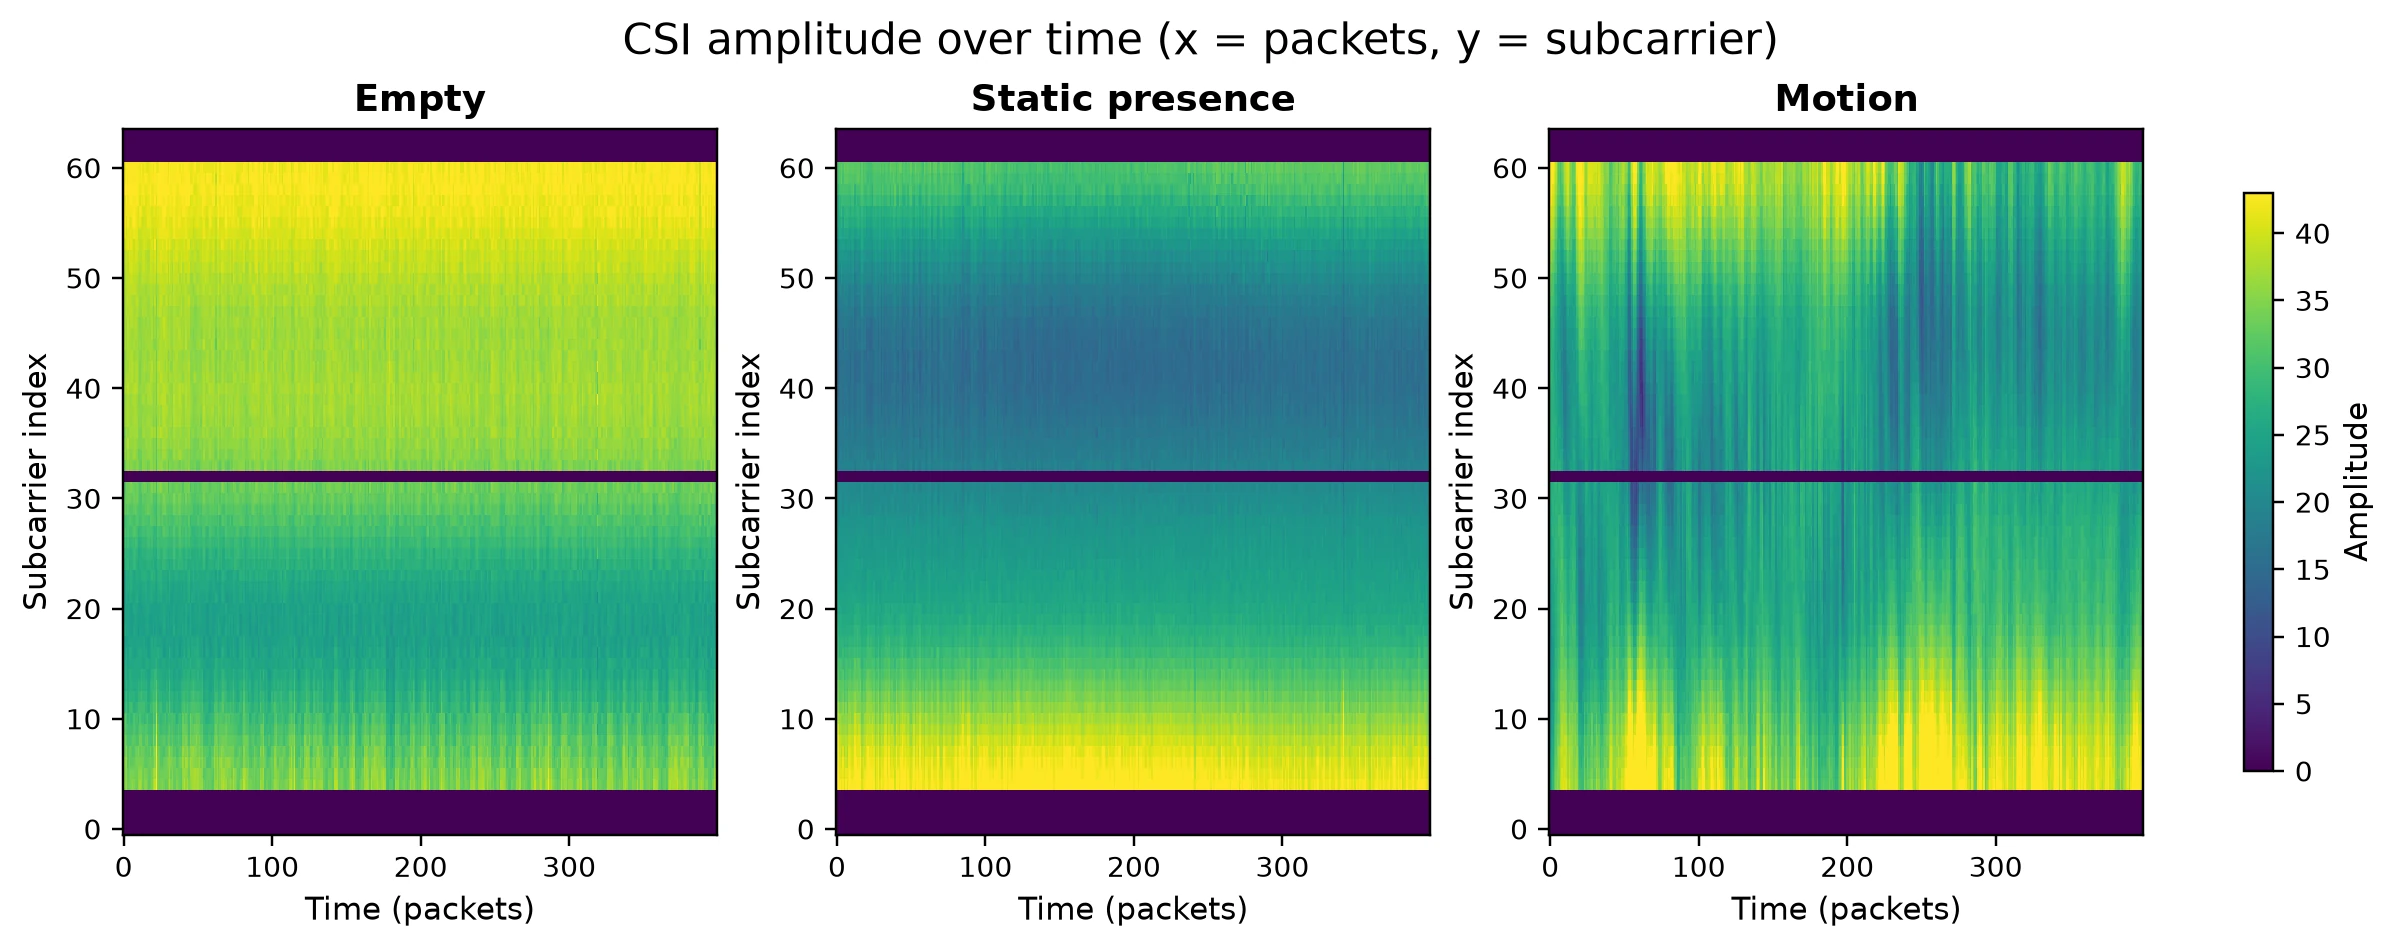
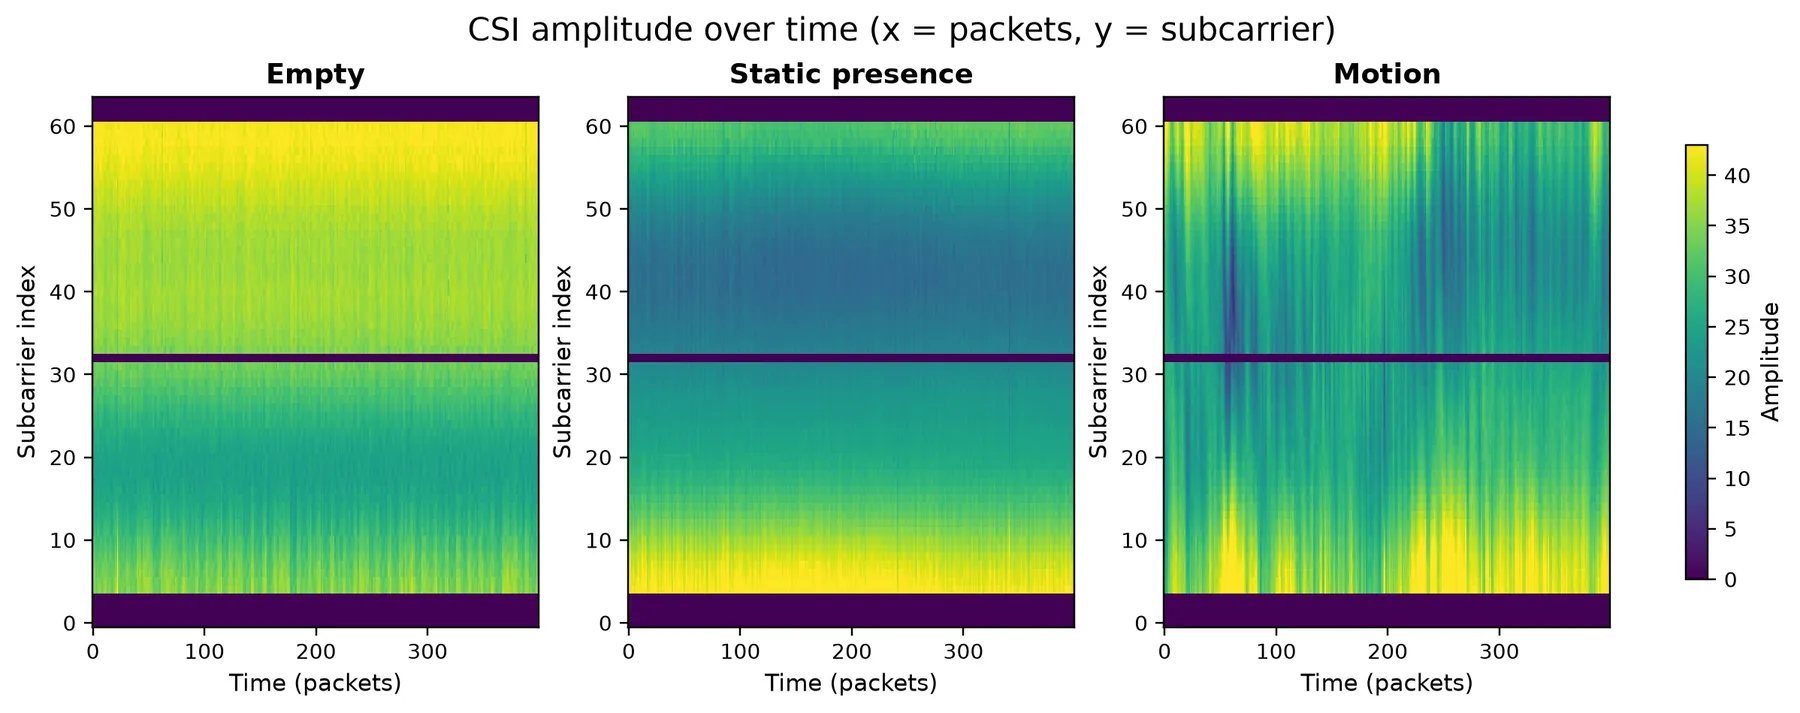
perf(web): convert remaining site images to WebP
Replace JPG and PNG homepage, scene, and game assets with WebP and shrink publication heatmap exports so the site ships lighter images.

diff --git a/docs/web/index.html b/docs/web/index.html
@@ -23,13 +23,13 @@
 <meta name="twitter:image" content="https://espectre.dev/assets/images/brand/espectre-og.jpg">
 <link rel="icon" type="image/svg+xml" href="/assets/images/brand/espectre-logo.svg?v=5c234009f6c5">
 <link rel="alternate icon" type="image/png" href="/assets/images/brand/favicon.png">
-<link rel="stylesheet" href="/assets/css/styles.css?v=5e874704e153">
+<link rel="stylesheet" href="/assets/css/styles.css?v=c7ea19a33860">
 <script src="/assets/js/espectre-direct.js?v=9359fea8bf00" defer></script>
 <script src="/assets/js/browser-support.js?v=ac4ba70c7f17" defer></script>
 <script src="/assets/js/route-registry.js?v=4526f65d0bd1" defer></script>
 <script src="/assets/js/navigation.js?v=bb0a8a4fb938" defer></script>
 <script src="/assets/js/analytics.js?v=1ba5c2cbf44c" defer></script>
-<script src="/assets/js/app.js?v=5d5659e63299" defer></script>
+<script src="/assets/js/app.js?v=664b523ccf3a" defer></script>
 </head>
 <body>
 
@@ -122,31 +122,31 @@
             <picture>
               <source media="(max-width: 720px)" srcset="/assets/images/home/hero-esp32-poster-mobile.webp">
               <img class="hero-frame hero-frame-disconnected"
-                src="/assets/images/home/hero-esp32-poster.jpg" alt="" width="1920" height="1080"
+                src="/assets/images/home/hero-esp32-poster.webp" alt="" width="1920" height="1080"
                 fetchpriority="high">
             </picture>
             <picture>
               <source media="(max-width: 720px)" srcset="/assets/images/home/hero-esp32-connected-mobile.webp">
               <img class="hero-frame hero-frame-connected"
-                src="/assets/images/home/hero-esp32-connected.jpg" alt="" width="1920" height="1080">
+                src="/assets/images/home/hero-esp32-connected.webp" alt="" width="1920" height="1080">
             </picture>
           </div>
           <div class="hero-scrim"></div>
         </div>
         <figure class="scrolly-scene js-scrolly-scene" data-scene="1">
-          <img data-src="/assets/images/home/scene-school-privacy.jpg" data-src-mobile="/assets/images/home/scene-school-privacy-mobile.webp" alt="" width="1672" height="941">
+          <img data-src="/assets/images/home/scene-school-privacy.webp" data-src-mobile="/assets/images/home/scene-school-privacy-mobile.webp" alt="" width="1672" height="941">
         </figure>
         <figure class="scrolly-scene js-scrolly-scene" data-scene="2">
-          <img data-src="/assets/images/home/scene-smart-heating.jpg" data-src-mobile="/assets/images/home/scene-smart-heating-mobile.webp" alt="" width="1920" height="1080">
+          <img data-src="/assets/images/home/scene-smart-heating.webp" data-src-mobile="/assets/images/home/scene-smart-heating-mobile.webp" alt="" width="1920" height="1080">
         </figure>
         <figure class="scrolly-scene js-scrolly-scene" data-scene="3">
-          <img data-src="/assets/images/home/scene-security-alert.jpg" data-src-mobile="/assets/images/home/scene-security-alert-mobile.webp" alt="" width="1920" height="1080">
+          <img data-src="/assets/images/home/scene-security-alert.webp" data-src-mobile="/assets/images/home/scene-security-alert-mobile.webp" alt="" width="1920" height="1080">
         </figure>
         <figure class="scrolly-scene js-scrolly-scene" data-scene="4">
-          <img data-src="/assets/images/home/scene-matter-integration.jpg" data-src-mobile="/assets/images/home/scene-matter-integration-mobile.webp" alt="" width="1920" height="1080">
+          <img data-src="/assets/images/home/scene-matter-integration.webp" data-src-mobile="/assets/images/home/scene-matter-integration-mobile.webp" alt="" width="1920" height="1080">
         </figure>
         <figure class="scrolly-scene js-scrolly-scene" data-scene="5">
-          <img data-src="/assets/images/home/scene-embedded-sdk.jpg" data-src-mobile="/assets/images/home/scene-embedded-sdk-mobile.webp" alt="" width="1920" height="1080">
+          <img data-src="/assets/images/home/scene-embedded-sdk.webp" data-src-mobile="/assets/images/home/scene-embedded-sdk-mobile.webp" alt="" width="1920" height="1080">
         </figure>
       </div>
       <div class="scrolly-scrim" aria-hidden="true"></div>

diff --git a/docs/web/content/guides/setup.html b/docs/web/content/guides/setup.html
@@ -81,7 +81,7 @@ python -m pip install -r requirements.txt</code></pre>
 ./espectre monitor --reset</code></pre>
       </div>
     </div>
-    <p>Run <code>./espectre devices</code> to inspect Direct HTTP endpoints advertised on the local network. Native, ESPHome, and Matter publish the same first-party <code>_espectre._tcp.local.</code> contract, so the command needs one fresh browse and does not interpret upstream ESPHome or Matter records. Use <code>--frontend</code> when you need only one firmware type.</p>
+    <p>Run <code>./espectre devices</code> to inspect Direct HTTP endpoints advertised on the local network. All ESPectre frontends publish the same first-party <code>_espectre._tcp.local.</code> contract, so the command performs a single fresh browse and does not interpret upstream ESPHome or Matter records. Use <code>--frontend</code> when you need only one firmware type.</p>
     <p>On Windows, use <code>espectre.cmd</code> instead of <code>./espectre</code>; the <a href="https://github.com/francescopace/espectre/blob/main/docs/SETUP.md" target="_blank" rel="noopener">setup reference</a> and <a href="https://github.com/francescopace/espectre/blob/main/docs/CLI.md" target="_blank" rel="noopener">CLI reference</a> cover complete prerequisites, explicit device overrides, <code>--clean-all</code>, and backend options.</p>
 
     <h2 id="setup-network">Step 3 — Connect it to your network</h2>

diff --git a/docs/web/content/security.html b/docs/web/content/security.html
@@ -22,7 +22,7 @@
       <article class="docs-path">
         <span class="docs-path-label">ON-DEVICE</span>
         <h3>Derive motion locally</h3>
-        <p>Normal sensing frontends process CSI on the ESP32 and expose derived movement, motion state, and limited diagnostics. Raw CSI export is an explicit local research workflow: Native, ESPHome, and Matter use one bearer-bound HTTP v2 stream carrying CSI V8 records.</p>
+        <p>Normal sensing frontends process CSI on the ESP32 and expose derived movement, motion state, and limited diagnostics. Raw CSI export is an explicit local research workflow: ESPectre uses a single bearer-bound HTTP v2 stream carrying CSI V8 records.</p>
         <span class="docs-path-meta">Local-first sensing boundary</span>
       </article>
       <article class="docs-path">

diff --git a/docs/web/404.html b/docs/web/404.html
@@ -10,7 +10,7 @@
 <title>Page not found | ESPectre</title>
 <meta name="robots" content="noindex">
 <link rel="icon" type="image/png" href="/assets/images/brand/favicon.png">
-<link rel="stylesheet" href="/assets/css/styles.css?v=5e874704e153">
+<link rel="stylesheet" href="/assets/css/styles.css?v=c7ea19a33860">
 <script src="/assets/js/route-registry.js?v=4526f65d0bd1" defer></script>
 <script src="/assets/js/navigation.js?v=bb0a8a4fb938" defer></script>
 <script src="/assets/js/analytics.js?v=1ba5c2cbf44c" defer></script>

diff --git a/docs/web/assets/js/app.js b/docs/web/assets/js/app.js
@@ -4290,7 +4290,7 @@
     gameGhostImage.src = '/assets/images/brand/espectre-logo.svg';
     const GAME_FACTORY_IMAGE_SOURCES = Object.freeze([
         '/assets/images/game/hardware-factory.avif',
-        '/assets/images/game/hardware-factory.png'
+        '/assets/images/game/hardware-factory.webp'
     ]);
     let gameFactoryImage = null;
     let gameFactoryImagePromise = null;

diff --git a/docs/web/assets/css/styles.css b/docs/web/assets/css/styles.css
@@ -424,7 +424,7 @@ button.conn-pill:hover { border-color: var(--accent-line); }
 }
 .hero-media {
   z-index: 0;
-  background: var(--media-bg-raised) url("/assets/images/home/hero-esp32-poster.jpg") center / cover no-repeat;
+  background: var(--media-bg-raised) url("/assets/images/home/hero-esp32-poster.webp") center / cover no-repeat;
 }
 .hero-frame {
   position: absolute;

diff --git a/tools/plot_heatmap.py b/tools/plot_heatmap.py
@@ -46,6 +46,9 @@ from tools.lib.dataset_metadata import (  # noqa: E402
 from tools.lib.ui import show_plot_window  # noqa: E402
 
 DEFAULT_LABELS = ("empty", "static_presence", "motion")
+DEFAULT_WEBP_QUALITY = 90
+PUBLICATION_WEBP_MAX_WIDTH = 1800
+PUBLICATION_WEBP_QUALITY = 82
 LABEL_TITLES = {
     "empty": "Empty",
     "static_presence": "Static presence",
@@ -234,7 +237,14 @@ def _shared_clim(samples: Sequence[HeatmapSample]) -> Tuple[float, float]:
     return float(lo), float(hi)
 
 
-def _export_image(path: Path, fig, *, dpi: int) -> None:
+def _export_image(
+    path: Path,
+    fig,
+    *,
+    dpi: int,
+    webp_quality: int = DEFAULT_WEBP_QUALITY,
+    max_width: Optional[int] = None,
+) -> None:
     """Save a matplotlib figure, converting to WebP when requested."""
     path = Path(path)
     path.parent.mkdir(parents=True, exist_ok=True)
@@ -248,7 +258,13 @@ def _export_image(path: Path, fig, *, dpi: int) -> None:
         fig.savefig(buffer, dpi=dpi, bbox_inches="tight", facecolor="white")
         buffer.seek(0)
         image = Image.open(buffer).convert("RGB")
-        image.save(path, "WEBP", quality=90, method=6)
+        if max_width is not None and image.width > max_width:
+            target_height = round(image.height * max_width / image.width)
+            image = image.resize(
+                (max_width, target_height),
+                Image.Resampling.LANCZOS,
+            )
+        image.save(path, "WEBP", quality=webp_quality, method=6)
     else:
         fig.savefig(path, dpi=dpi, bbox_inches="tight", facecolor="white")
     print(f"Saved: {path}")
@@ -343,7 +359,15 @@ def plot_csi_heatmaps(
         colorbar.set_label(colorbar_label, fontsize=label_size)
 
     if output is not None:
-        _export_image(Path(output), fig, dpi=dpi)
+        _export_image(
+            Path(output),
+            fig,
+            dpi=dpi,
+            webp_quality=(
+                PUBLICATION_WEBP_QUALITY if publication else DEFAULT_WEBP_QUALITY
+            ),
+            max_width=PUBLICATION_WEBP_MAX_WIDTH if publication else None,
+        )
 
     if show:
         show_plot_window(plt)
